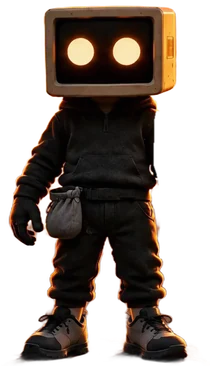
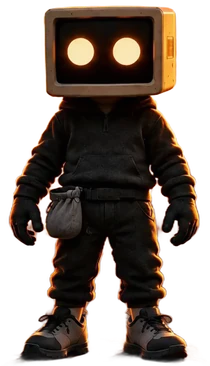
fix: give Topo a natural wave with his own forearm (#222)

Changed region(s): [[0.7143, 0.3005, 0.9714, 0.6913], [0.7429, 0.6612, 0.7714, 0.6913]]

diff --git a/client/src/components/assistant/AssistantChat.module.css b/client/src/components/assistant/AssistantChat.module.css
@@ -15,7 +15,7 @@
  */
 .dock {
   --topo-width: 94px;
-  --topo-down: 62px;
+  --topo-down: 39px;
   --topo-up: 0px;
   --topo-still: 0px;
   position: fixed;
@@ -23,7 +23,7 @@
   bottom: 0;
   z-index: 30;
   width: var(--topo-width);
-  height: 98px;
+  height: 75px;
   clip-path: inset(-200px -40px 0 -200px);
   pointer-events: none;
 }
@@ -57,18 +57,29 @@
   pointer-events: auto;
 }
 
-.topoArm,
-.topoBody {
+.topoBody,
+.topoHand {
   position: absolute;
-  inset: 0;
-  width: 100%;
-  height: 100%;
   user-select: none;
 }
 
-/* The arm turns at the shoulder, behind the body, so the joint stays hidden. */
-.topoArm {
-  transform-origin: 77.1% 32.5%;
+.topoBody {
+  inset: 0;
+  width: 100%;
+  height: 100%;
+}
+
+/*
+ * His raised forearm turns at the elbow, which stays below the bottom edge of the screen, and
+ * drops out of sight there between waves.
+ */
+.topoHand {
+  top: 22.95%;
+  left: 77%;
+  width: 24.29%;
+  height: 25.41%;
+  transform: translateY(95%) rotate(0deg);
+  transform-origin: 50% 111.6%;
   animation: topo-wave 12s ease-in-out 1.2s infinite;
 }
 
@@ -99,7 +110,7 @@
   transition: transform 220ms ease-out;
 }
 
-.launcher:is(:hover, :focus-visible) .topoArm {
+.launcher:is(:hover, :focus-visible) .topoHand {
   animation: topo-hello 1.6s ease-in-out forwards;
 }
 
@@ -145,32 +156,31 @@
 @keyframes topo-wave {
   0%,
   10% {
-    transform: rotate(0deg);
+    transform: translateY(95%) rotate(0deg);
   }
 
-  14% {
-    transform: rotate(-128deg);
+  13% {
+    transform: translateY(0) rotate(2deg);
   }
 
-  17% {
-    transform: rotate(-142deg);
+  15.5%,
+  20.5% {
+    transform: translateY(0) rotate(-8deg);
   }
 
-  20% {
-    transform: rotate(-124deg);
-  }
-
+  18%,
   23% {
-    transform: rotate(-142deg);
+    transform: translateY(0) rotate(12deg);
   }
 
-  26% {
-    transform: rotate(-126deg);
+  25.5%,
+  26.5% {
+    transform: translateY(0) rotate(2deg);
   }
 
-  31%,
+  29.5%,
   100% {
-    transform: rotate(0deg);
+    transform: translateY(95%) rotate(0deg);
   }
 }
 
@@ -196,27 +206,25 @@
 
 @keyframes topo-hello {
   0% {
-    transform: rotate(0deg);
+    transform: translateY(95%) rotate(0deg);
   }
 
-  25% {
-    transform: rotate(-130deg);
+  18% {
+    transform: translateY(0) rotate(2deg);
   }
 
-  45% {
-    transform: rotate(-142deg);
+  34%,
+  66% {
+    transform: translateY(0) rotate(-8deg);
   }
 
-  65% {
-    transform: rotate(-124deg);
-  }
-
-  85% {
-    transform: rotate(-142deg);
+  50%,
+  82% {
+    transform: translateY(0) rotate(12deg);
   }
 
   100% {
-    transform: rotate(-130deg);
+    transform: translateY(0) rotate(2deg);
   }
 }
 
@@ -626,7 +634,7 @@
     height: 56px;
   }
 
-  /* On a phone only Topo's head shows above the bottom edge, and he pops up a little to wave. */
+  /* On a phone only Topo's head shows above the bottom edge, and he pops up a little without raising his hand. */
   .dock {
     --topo-width: 84px;
     --topo-down: 40px;
@@ -642,10 +650,8 @@
     font-size: 13px;
   }
 
-  /* His arm would wave past the edge of a phone's screen, so on a phone he only pops up. */
-  .topoArm,
-  .launcher:is(:hover, :focus-visible) .topoArm {
-    animation: none;
+  .topoHand {
+    display: none;
   }
 
   .panel {
@@ -676,9 +682,9 @@
 
 @media (prefers-reduced-motion: reduce) {
   .topo,
-  .topoArm,
+  .topoHand,
   .bubble,
-  .launcher:is(:hover, :focus-visible) :is(.topo, .topoArm, .bubble) {
+  .launcher:is(:hover, :focus-visible) :is(.topo, .topoHand, .bubble) {
     animation: none;
     transition: none;
   }
@@ -686,6 +692,10 @@
   .topo,
   .launcher:is(:hover, :focus-visible) .topo {
     transform: translateY(var(--topo-still));
+  }
+
+  .topoHand {
+    transform: rotate(2deg);
   }
 
   .bubble {

diff --git a/client/src/components/assistant/AssistantChat.tsx b/client/src/components/assistant/AssistantChat.tsx
@@ -28,8 +28,8 @@ import {
   routeAssistantProblem,
   routeQuestionProblem,
 } from "../../lib/routeAssistantApi.ts";
-import topoArm from "../../assets/topo/topo-arm.webp";
 import topoBody from "../../assets/topo/topo-body.webp";
+import topoHand from "../../assets/topo/topo-hand.webp";
 import { useSession } from "../session/sessionContext.ts";
 import workspace from "../gym-admin/GymAdminDashboard.module.css";
 import styles from "./AssistantChat.module.css";
@@ -342,8 +342,8 @@ function Chat({ storeKey, userId, place, competitionId, competitionName, divisio
           onClick={show}
         >
           <span className={styles.topo} aria-hidden="true">
-            <img className={styles.topoArm} src={topoArm} alt="" width={210} height={366} draggable={false} />
             <img className={styles.topoBody} src={topoBody} alt="" width={210} height={366} draggable={false} />
+            <img className={styles.topoHand} src={topoHand} alt="" width={51} height={93} draggable={false} />
             <span className={styles.bubble}>Ask AI</span>
           </span>
         </button>
